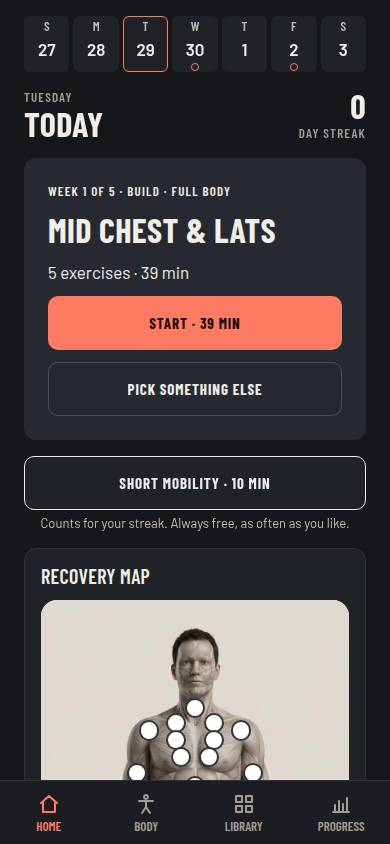
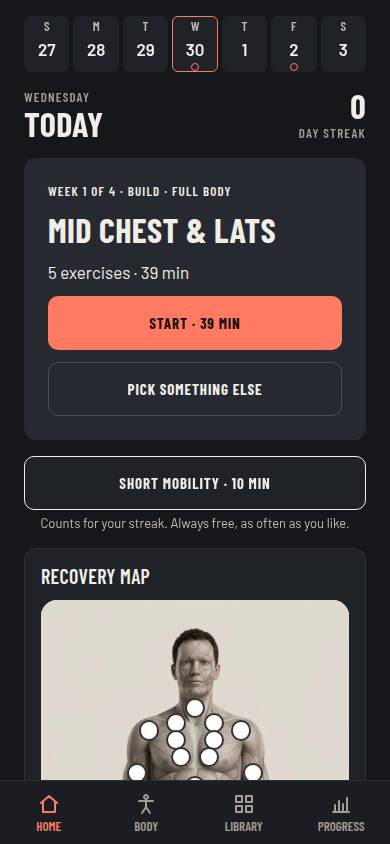
Phase 26: month screenshots (en/es/pt-BR), SPEC, launch list, report
Claude-Session: https://claude.ai/code/session_01YZKDqVTirwP3vm8p6KZMpS

diff --git a/src/features/month/components/MonthSummaryView.tsx b/src/features/month/components/MonthSummaryView.tsx
@@ -3,7 +3,7 @@ import { useState } from 'react';
 import { useTranslation } from 'react-i18next';
 import { View } from 'react-native';
 
-import { AppText, Button, Card, Notice } from '@/components/ui';
+import { AppText, Button, Card, Chip, Notice } from '@/components/ui';
 import { BodyMapCanvas } from '@/features/bodymap/components/BodyMapCanvas';
 import type { BodySex, BodyView } from '@/features/bodymap/images';
 import { muscleLabel } from '@/features/onboarding/summaries';
@@ -65,8 +65,9 @@ export function MonthSummaryView({
   for (const m of Object.keys(summary.sets)) fills[m] = setsFill(perWeek(m));
   for (const key of ['upperChest', 'midChest', 'lowerChest']) fills[key] = fills.chest;
   for (const key of ['upperAbs', 'lowerAbs']) fills[key] = fills.abs;
-  const parentOfTap = (key: string) =>
-    key.endsWith('Chest') ? 'chest' : key.endsWith('Abs') ? 'abs' : key;
+  const trainedMuscles = Object.keys(summary.sets)
+    .filter((m) => (summary.sets[m] ?? 0) > 0)
+    .sort((a, b) => (summary.sets[b] ?? 0) - (summary.sets[a] ?? 0));
 
   const weeks = Array.from({ length: summary.weeks }, (_, w) =>
     Array.from({ length: 7 }, (_, d) => addDays(summary.from, w * 7 + d)),
@@ -78,7 +79,7 @@ export function MonthSummaryView({
     if (r.kind === 'reps') return t('workout.rest.reps', { count: v.value });
     return `${v.value} s`;
   };
-  const tappedMuscle = picked ? parentOfTap(picked) : null;
+  const tappedMuscle = picked;
 
   return (
     <View style={styles.wrap}>
@@ -138,14 +139,15 @@ export function MonthSummaryView({
           {t('month.bodyHint')}
         </AppText>
         <BodyMapCanvas
+          readOnly
           band={band}
           sex={sex}
           view={view}
-          selected={picked ? [picked] : []}
+          selected={[]}
           recovery={fills}
-          onToggle={(key) => setPicked(key === picked ? null : key)}
           maxHeight={420}
           accessibilityLabel={t('month.bodyTitle')}
+          dotTestID={(key) => `month-dot-${key}`}
         />
         <View style={styles.row}>
           {(['front', 'back'] as const).map((v) => (
@@ -154,6 +156,17 @@ export function MonthSummaryView({
               variant={v === view ? 'primary' : 'ghost'}
               label={t(`bodyMap.${v}`)}
               onPress={() => setView(v)}
+            />
+          ))}
+        </View>
+        {/* Tap a muscle: this month vs last month. */}
+        <View style={styles.chips}>
+          {trainedMuscles.map((m) => (
+            <Chip
+              key={m}
+              label={muscleLabel(t, m)}
+              selected={picked === m}
+              onPress={() => setPicked(picked === m ? null : m)}
             />
           ))}
         </View>
@@ -293,4 +306,5 @@ const useStyles = makeStyles(() => ({
     justifyContent: 'center',
   },
   row: { flexDirection: 'row', gap: spacing.sm, justifyContent: 'center' },
+  chips: { flexDirection: 'row', flexWrap: 'wrap', gap: spacing.xs },
 }));

diff --git a/src/features/month/screens.test.tsx b/src/features/month/screens.test.tsx
@@ -254,11 +254,16 @@ describe('the Month closed screen', () => {
     expect(router.replace).toHaveBeenCalledWith('/home');
   });
 
-  it('adults see strength, records and measurements', async () => {
+  it('adults see strength, records and measurements; tapping a muscle shows its sets', async () => {
     await open();
     expect(screen.getByText('Strength')).toBeTruthy();
     expect(screen.getByRole('button', { name: 'Add measurements' })).toBeTruthy();
     expect(screen.queryByText('Your habit')).toBeNull();
+    // Tap a muscle: this month's sets (the first block has no "last month").
+    await fireEvent.press(screen.getByRole('button', { name: 'Quads' }));
+    expect(screen.getByTestId('month-muscle-compare')).toHaveTextContent(
+      /^Quads: \d+ sets this month$/,
+    );
   });
 
   it('teens: days, sets, the map and the habit; no weights, records, measurements or photos', async () => {

diff --git a/docs/progress.md b/docs/progress.md
@@ -2345,3 +2345,73 @@ A lista curta e em ordem está em `docs/launch-readiness.md`, em "Antes do próx
 - `functions:check`; `security:check` (0 alto/crítico, 16 moderados já conhecidos).
 - `bundle:check` sem segredos nem rascunhos; `web:check` (dev + produção); `tabs:check`; `theme:check` com 50 capturas. A de `/plans` mudou por causa do título.
 - **Pendente de antes:** o lote de vídeos (`videos-lote-1`) continua esperando o seu "subi".
+
+## Fase 26 — Fechamento do mês
+
+Texto salvo em `docs/phase-26-monthly-cycle.md`. Dois commits de código: A (lógica e dados) e B (telas).
+
+### Feito
+
+**Quando aparece**
+- O bloco padrão agora é de 4 semanas (3 normais + 1 leve) = "1 mês". Os planos de 5–6 semanas continuam valendo, e o resumo sai no fim do bloco que for.
+- Sem plano, conta a partir do 1º treino (a cada 28 dias).
+- Com 4 ou mais treinos no bloco: tela cheia "1 mês completo!" uma vez só, na primeira abertura depois da semana leve.
+- Com menos de 4 treinos: só o card leve "Vamos retomar?" na Home.
+- Nunca no meio de um treino, nem para perfil sem treinos.
+- Fechou ou pulou: vira o card "O resumo do seu mês" na Home por 7 dias.
+- Notificação opcional "Seu mês fechou 🎉" no dia em que o resumo abre, no horário dos lembretes, só se os lembretes estiverem ligados. Não pede permissão nova.
+
+**A tela "Mês fechado"** (unificada com o check-in de 4 semanas: o card/atalho antigo de check-in saiu da Home e da Home 60+)
+- Treinos, dias treinados (calendário do bloco) e tempo total.
+- Corpo colorido pelas séries do mês, com legenda. Tocar em um músculo mostra as séries deste mês e as do mês anterior.
+- Força (semana 1 × última) e recordes do mês, respeitando a idade: 60+ só vê "maior carga", adolescente não vê nenhum dos dois.
+- Medidas e fotos só para quem já podia ver: adultos; 60+ vê só as fotos, e só se ativou; menores nunca. O botão abre o check-in, que continua sendo a tela das medidas.
+- Destaques em 2 frases, sem culpa: um ponto forte e um a melhorar.
+- Repair: se o reteste venceu, aparece primeiro "Refaça o teste de 2 minutos", sem bloquear nada.
+
+**"Seu próximo mês"** (mesma tela, uma escolha, com o padrão pronto)
+- **Continuar evoluindo (recomendado):** mostra a prévia (Mantém… · Troca: N exercícios · Foco novo…) e o porquê do foco em 1 linha. "Ver/ajustar" permite travar exercícios; travar = manter.
+- **Repetir igual:** os mesmos exercícios, exatamente.
+- **Escolher no corpo:** abre a aba Corpo com o foco sugerido destacado e botões "Adicionar …".
+- Sem resposta: ao começar um treino, a recomendação é aplicada e o treino mostra "Renovei N exercícios · Desfazer". O desfazer vale 7 dias e volta ao plano do mês anterior exatamente igual.
+
+**Regras de renovação e foco** (funções puras, testadas)
+- **Mantém** o composto que progrediu nas últimas 3 semanas.
+- **Troca** pelo menos metade dos acessórios por opções seguras do mesmo músculo, preferindo o que não foi feito nos últimos 2 blocos e outro ângulo.
+- **Troca** o que estagnou e o que doeu. Exercício com dor "sharp" nunca mais volta, nem com estrela.
+- **Nunca troca** estrela nem travado.
+- **Limite de trocas:** até ~50% (adultos e teens); 2 por mês para 60+ e para quem tem cuidado articular.
+- As travas atuais continuam no gerador: limite semanal de séries por idade, orçamento articular, equipamento e restrições. O mês só diz o que preferir e o que deixar de fora.
+- **Foco:** no máximo 2 músculos, nesta ordem:
+  1. músculo marcado pela pessoa com menos de 4 séries por semana;
+  2. desequilíbrio: empurrar × puxar, quadríceps × posterior, ou lado "uneven" no Repair;
+  3. músculo grande sem treino há 14+ dias.
+
+  Ele soma às metas, nunca tira nenhuma. Vale +1 série por sessão (cerca de 2–3 por semana), dentro do limite semanal.
+
+**Dados**
+- Por perfil (família inclusa): resumo em JSON, escolha, trocas (de → para, motivo), desfazer e histórico.
+- Tabela `month_reviews`: RLS do dono ou responsável com WITH CHECK, e teste SQL com troca de usuário. Nada de medidas ou fotos nela.
+- Progresso › Meses lista os resumos antigos.
+
+### Prints
+`docs/screenshots/month/`: `en-month.jpg`, `es-month.jpg`, `pt-BR-month.jpg` (a tela inteira) e `*-home-card.jpg` (o card na Home). O script `node scripts/shoot-month.mjs` gera tudo de novo.
+
+### O que ficou de fora
+- **"Piscando" no corpo:** o foco sugerido aparece destacado na cor de destaque, com botão para adicionar, mas sem animação.
+- **Tocar no músculo dentro do desenho:** o toque é numa fileira de músculos logo abaixo do corpo. No modo tocável o desenho perde as cores das séries.
+- **Recordes:** só o de maior carga.
+
+### Verificações
+- Lint e typecheck limpos; **1303 testes** passando, também em ordem aleatória.
+- `db:test` (com `month_reviews` e o catálogo de segurança), `functions:check`, `security:check`, `bundle:check`.
+- `theme:check`: 50 capturas.
+
+### No caminho
+- Você subiu pelo GitHub 15 vídeos de equilíbrio (em `assets/prototype/`, com data no nome) e 10 imagens na raiz do projeto. Fiz merge sem mexer neles.
+- Os vídeos ainda não estão ligados ao app, porque o nome com data não bate com o padrão `slug.f.mp4`. Quando quiser, eu renomeio e ligo.
+
+### Perguntas
+1. **Semana leve no bloco padrão:** agora quem não escolheu plano tem blocos de 4 semanas, e a semana leve (−40% de volume) vem a cada 4 semanas, e não mais a cada 5. Ok? *(Recomendado: sim, é o que faz "1 mês" fechar certinho.)*
+2. **Dor "sharp":** o exercício sai para sempre, mesmo com estrela. Ok? *(Recomendado: sim, segurança primeiro. Daria para liberar depois de um reteste de dor sem dor.)*
+3. **Menos de 4 treinos:** o card "Vamos retomar?" não traz resumo nem troca exercícios. Ok? *(Recomendado: sim, sem pressão.)*

diff --git a/docs/SPEC.md b/docs/SPEC.md
@@ -304,7 +304,8 @@ Physical therapists map the **movement**, not only the place ("which movement hu
 
 - Adults only.
 - Waist-to-height (WHtR) is the primary index; show BMI as secondary with its limits explained.
-- Check-in every 4 weeks. It shows:
+- **Month closed (Phase 26, `docs/phase-26-monthly-cycle.md`):** at the end of each block (4 weeks without a plan = 1 month; plans keep 5–6) a full-screen summary once, then a Home card for 7 days, ending with "Your next month" (keep progressing / repeat the same / choose on the body; no answer = the recommendation, with 7-day undo). It replaces the automatic 4-week check-in prompt; the check-in screen stays as the measurements entry. Past months: Progress > Months.
+- Check-in (measurements, opened from the month summary or Progress). It shows:
   - strength changes (load × reps, push-ups, plank);
   - body changes if entered;
   - a coach note.
@@ -351,6 +352,7 @@ Physical therapists map the **movement**, not only the place ("which movement hu
 | `/repair/plan`              | **NEW**             | Corrective plan built from results                                                                                       |
 | `/(tabs)/progress`          | 10 Progress         | Streak, workouts, sets, weekly chart, measurements                                                                       |
 | `/checkin`                  | 10b Check-in        | 4-week results, WHtR/BMI (adults)                                                                                        |
+| `/month`, `/months`         | Month closed        | Block summary + next month (Phase 26); past months                                                                       |
 | `/before-after`             | 10c Photos          | Adults only, on-device                                                                                                   |
 | `/milestone`                | 11b Celebration     | Streak, badges, freeze                                                                                                   |
 | `/(tabs)/family` / `/plans` | 11 Plans & family   | Plans, family members, add child (guardian consent flow)                                                                 |
@@ -369,7 +371,7 @@ Physical therapists map the **movement**, not only the place ("which movement hu
   - `workout_started`, `set_logged`, `exercise_swapped` (reason), `pain_reported` (type)
   - `workout_completed` / `workout_ended_early`
 - **Growth:** `share_card_shared` (target), `account_created` (method), `paywall_viewed`, `trial_started`, `subscription_started`, `subscription_cancelled`
-- **Retention:** `streak_milestone`, `checkin_completed`, `repair_test_completed`
+- **Retention:** `streak_milestone`, `checkin_completed`, `repair_test_completed`, `month_closed`, `month_chosen`, `month_skipped`, `month_undone`
 
 Never send health details, pain data or photos to analytics.
 

diff --git a/docs/launch-readiness.md b/docs/launch-readiness.md
@@ -83,12 +83,13 @@ Migrações novas desde a Fase 22, em ordem:
 9. `20261019000100_security_r2_pin_change.sql` — trocar o PIN exige o PIN atual ou o código do e-mail (uso único, 10 min).
 10. `20261019000200_security_r2_birth_date.sql` — adolescente não vira adulto mudando a data; registro das mudanças; modo 60+ só com 60+.
 11. `20261019000300_security_r2_p3.sql` — treino da indicação com horário do servidor; responsável não apaga perfil de adolescente com login próprio; `parent_pin_failed` só no servidor.
+12. `20261020000000_month_reviews.sql` — resumos dos meses fechados e a escolha do próximo mês (Fase 26).
 
 Depois do push: `npm run server:check` (com as variáveis do `.env`) deve dizer "OK". Se o app rodar contra um servidor sem essas funções, ele registra `server_missing:<função>` no Sentry.
 
 ## Antes do próximo build de teste — sua lista, nesta ordem (Fase 25)
 
-1. **Migrações:** no terminal, na pasta do projeto, `supabase db push` (aplica as 11 da lista acima que ainda faltarem).
+1. **Migrações:** no terminal, na pasta do projeto, `supabase db push` (aplica as da lista acima que ainda faltarem).
 2. **Conferir o servidor:** `npm run server:check`. Ele deve dizer "OK" para as migrações. Nesta fase ele também **falha se o captcha estiver desligado**, então o passo 4 precisa vir antes do build de produção (builds de preview não travam por isso).
 3. **Turnstile (Cloudflare):** criar o site e colocar a *site key* no EAS como `EXPO_PUBLIC_TURNSTILE_SITE_KEY` (passo a passo em "Segurança" abaixo). Gerar o build de teste com essa chave.
 4. **Painel do Supabase → Authentication**, depois que os testadores tiverem o build com o Turnstile:
